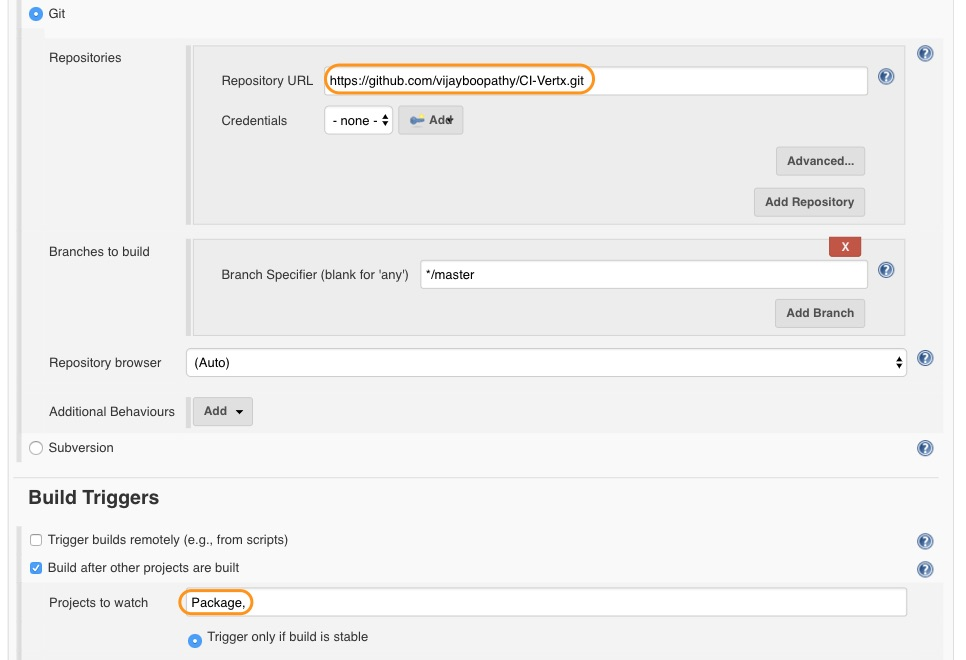
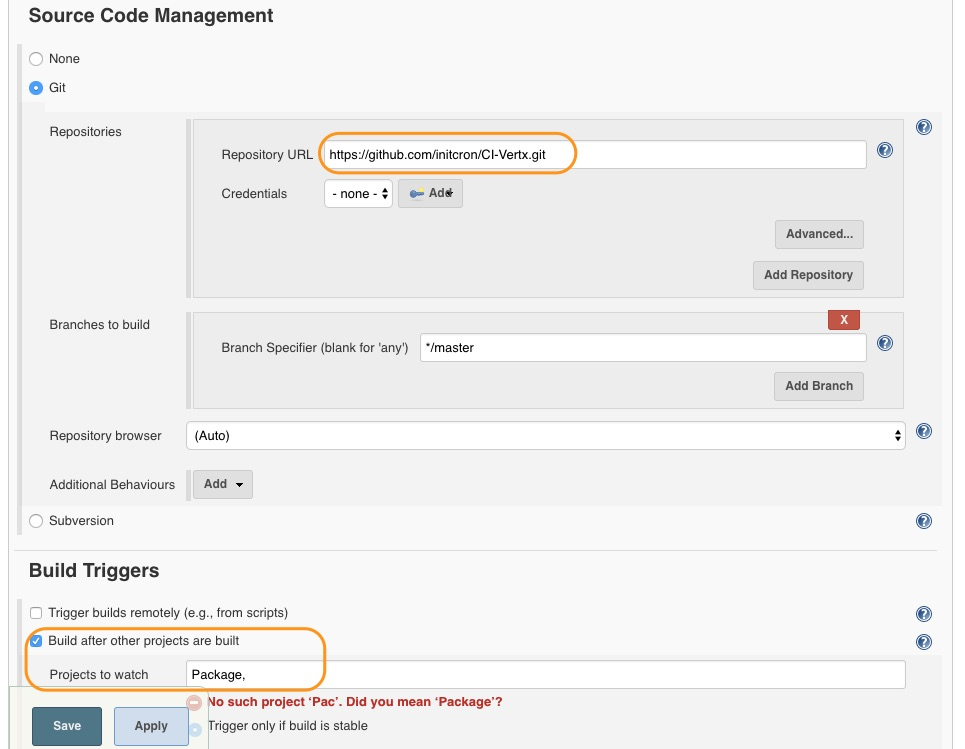
Docker-compose chapter

diff --git a/Continuous-Delivery/chapters/130_create_docker_image.md b/Continuous-Delivery/chapters/130_create_docker_image.md
@@ -9,14 +9,16 @@ Now our application is ready to be used as a result of successful Package job ru
 
 ## Docker-Image Job
 
-* Before creating this job, please install **copy artifacts plugin** which is a prerequisite.
+* Before creating this job, please install **copy artifacts plugin** which is also a prerequisite.
+
+![plugin](images/docker-image/plugin.jpg)
 
 * This time create a *freestyle project* named **Docker-Image**.
 
 * In *Source Code Management* step, add the following git repository.
 
 ```
-https://github.com/vijayboopathy/CI-Vertx.git
+https://github.com/initcron/CI-Vertx.git
 ```
 
 This repository has a Dockerfile and a script file (Just to set a Java opts property) in it.
@@ -25,9 +27,23 @@ This repository has a Dockerfile and a script file (Just to set a Java opts prop
 
 ![repo](images/docker-image/repo.jpg)
 
-* Click on save project for now.
+* Click on apply project for now.
+
+## Build Environment
+
+![clear](images/docker-image/clear.jpg)
+
+This job requires workspace to be cleared before it runs. So,
+
+* In *Build Environment step*, Select **Delete workspace before build starts** then click on **Advanced**.
+
+* In *Patterns for files to be deleted* section, click on **Add**.
+
+* In the second field add **target/*.war** as a pattern.
 
 ## Copy the artifact from Package
+
+![last](images/docker-image/last1.jpg)
 
 * In *Build Step*, **Copy artifacts from another project** from the drop down list.
 
@@ -69,14 +85,16 @@ Like the previous step, we add a script inside the image. The purpose of this sc
 
 ## Let's Build the Image
 
+![last](images/docker-image/last2.jpg)
+
 * This job has **one more** *Build step*.
 
 * Select **Execute shell** from the drop down menu and put the following content.
 
 ```
-docker build -t <YOUR_DOCKER_ID>/<YOUR_IMAGE_NAME>:latest .
+sudo docker build -t <YOUR_DOCKER_ID>/<YOUR_IMAGE_NAME>:latest .
 
-docker push <YOUR_DOCKER_ID>/<YOUR_IMAGE_NAME>:latest
+sudo docker push <YOUR_DOCKER_ID>/<YOUR_IMAGE_NAME>:latest
 ```
 
 Replace **<YOUR_DOCKER_ID>** and **<YOUR_IMAGE_NAME>** with your own values.

diff --git a/Continuous-Delivery/chapters/140_Deploy_with_Docker_compose.md b/Continuous-Delivery/chapters/140_Deploy_with_Docker_compose.md
@@ -1,4 +1,41 @@
+# Deploy with Docker-Compose
 
+In the previous chapter we have created our Docker image and pushed it to the Dockerhub registry.
+Now, we will deploy our application using **docker-compose**.
+
+## Pre-requisite
+
+Before we create our Deploy job, we need to *install Docker-Compose*. To do that, log in to **jenkins container** and perform the following commands.
+
+```
+docker exec -it jenkins bash
+
+curl -L https://github.com/docker/compose/releases/download/1.12.0/docker-compose-`uname -s`-`uname -m` > ~/docker-compose
+
+chmod +x ~/docker-compose
+
+~/docker-compose
+```
+
+## Create a Deploy Job
+
+![job](images/docker-compose/job.jpg)
+
+* Create a freestyle job called **Deploy**.
+
+![trigger](images/docker-compose/trigger.jpg)
+
+* Build Trigger should be **Docker-Image** job.
+
+![build](images/docker-compose/build.jpg)
+
+* In Build step, add **Execute Shell** as a build step and put the following content.
+
+```
+~/docker-compose up -d
+```
+
+* Finally click on save.
 
 ----
-:point_left:[**Prev** Chapter 13: Docker Hub Registry Job](https://github.com/vijayboopathy/CI-Vertx-Doc/blob/master/Continuous-Delivery/chapters/130_DockerHub_registry.md)
+:point_left:[**Prev** Chapter 14: Docker Hub Registry Job](https://github.com/vijayboopathy/CI-Vertx-Doc/blob/master/Continuous-Delivery/chapters/130_create_docker_image.md)
